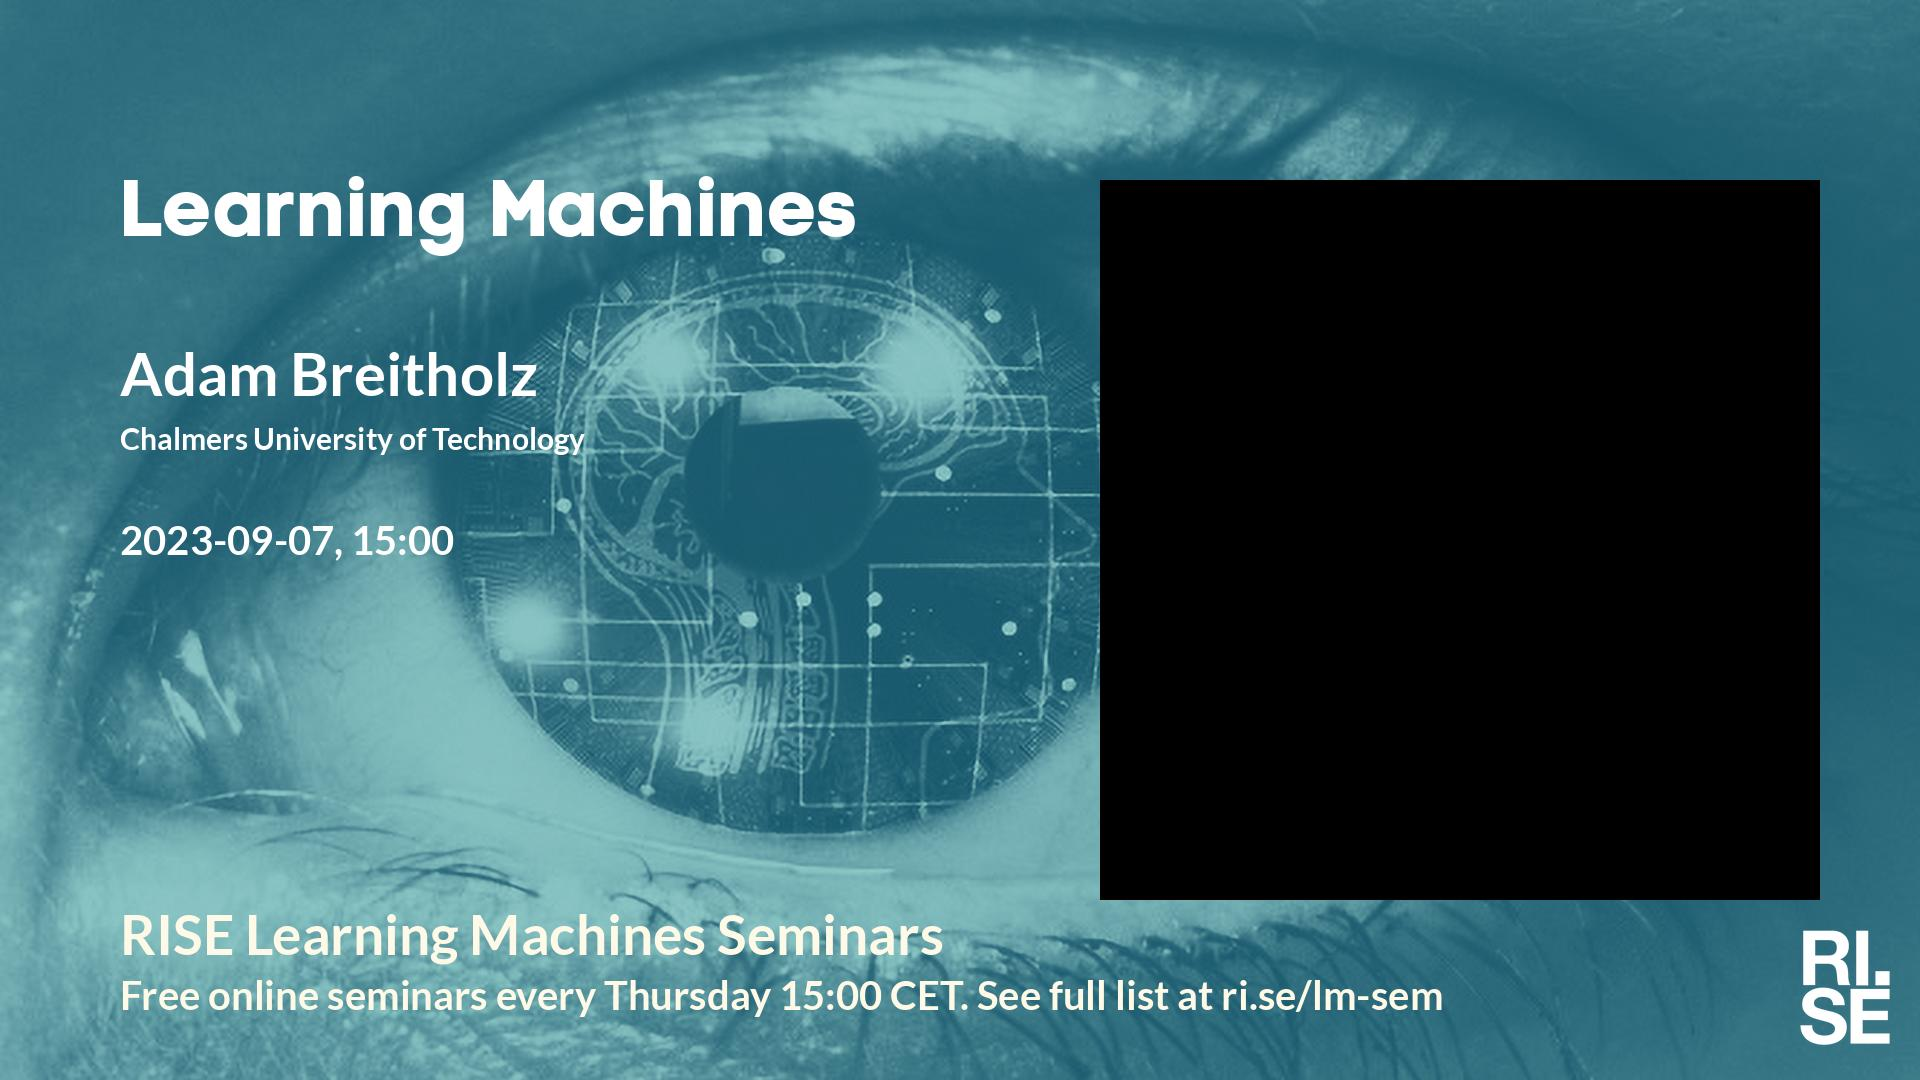
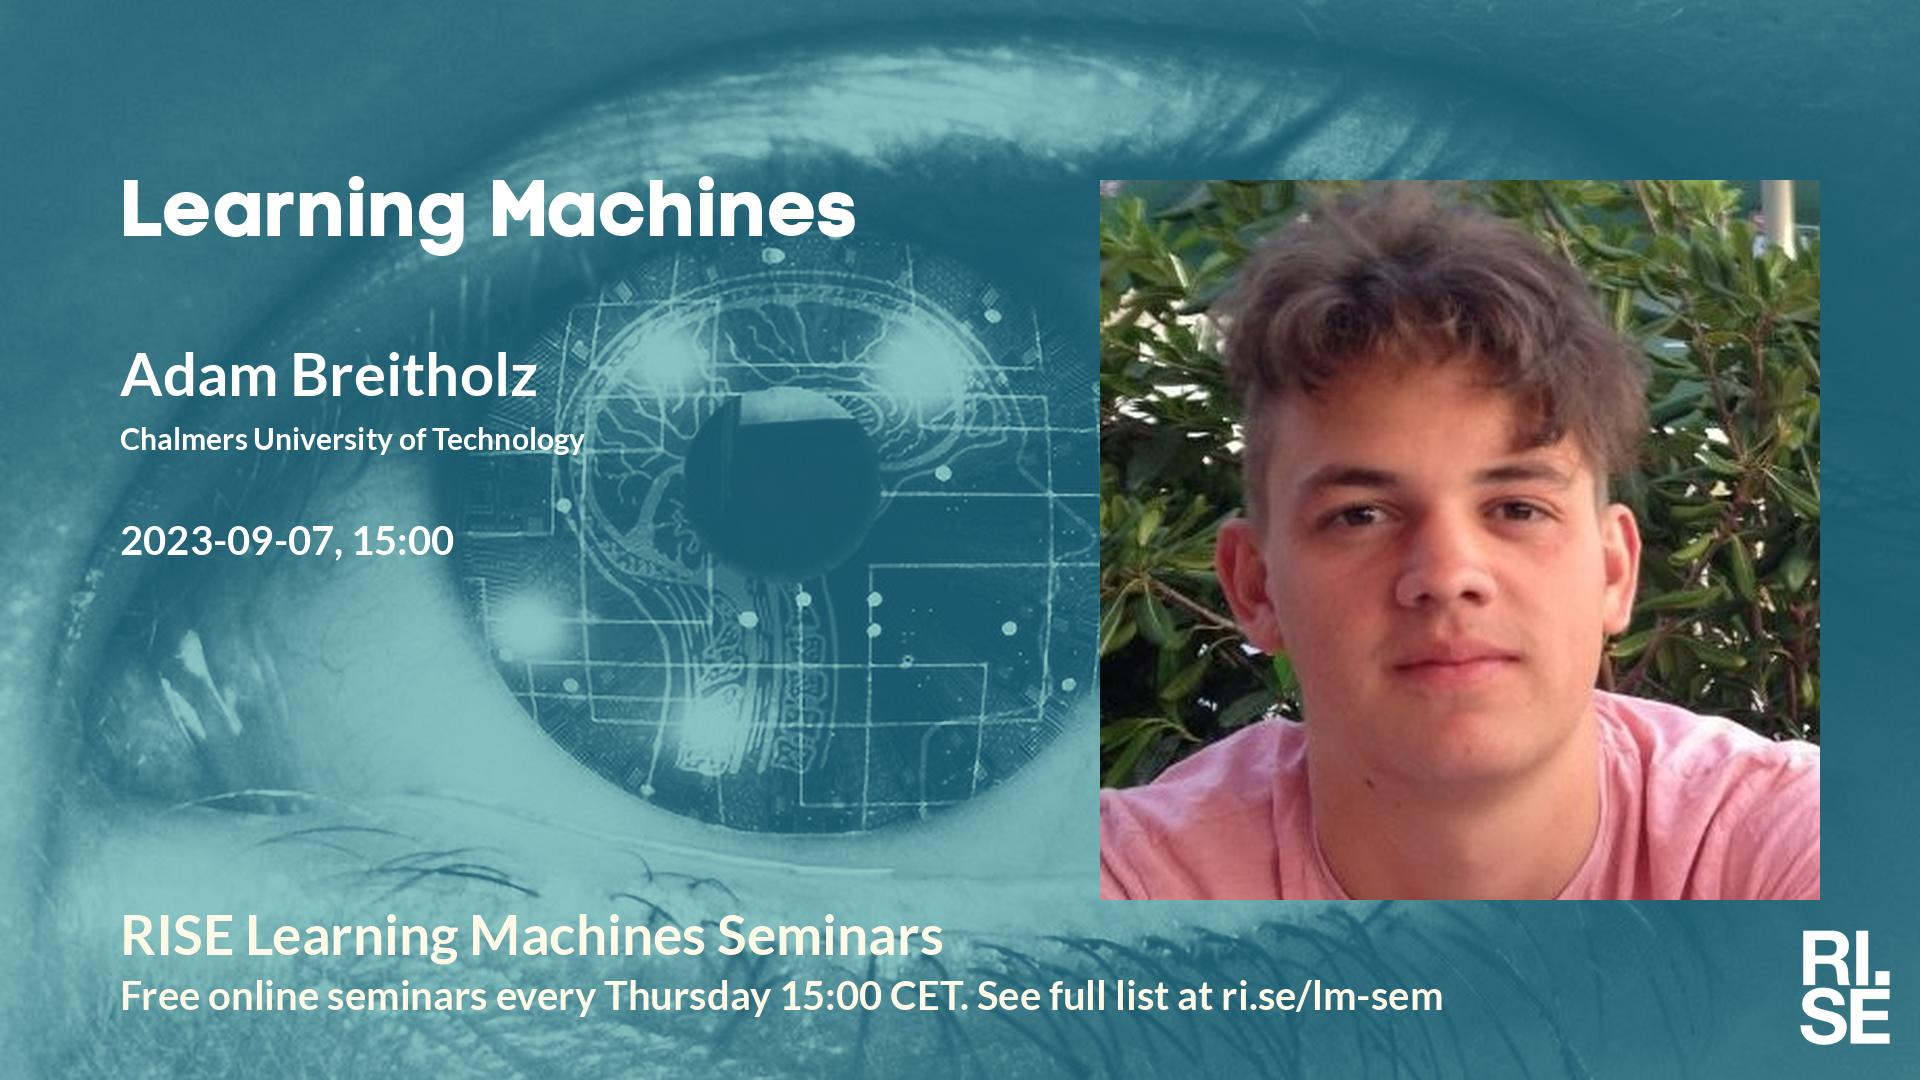
Updated plan on web site.

Changed region(s): [[0.5625, 0.1528, 0.9688, 0.8556]]

diff --git a/lm/index.md b/lm/index.md
@@ -10,7 +10,7 @@ table {border-collapse: collapse;}
 | date | speaker                                   | photo | shareable | meeting backdrop | youtube thumbnail | <a title="Speaker, Title, Abstract, Bio, Photo. Strikethrough means we don't have it yet.">comment</a>        |
 | ---- | ----------------------------------------- | ----- | ----- | ----- | ----- | -------------- |
 |  2023-08-31  |  [Zahra Taghiyar Renan, Halmstad University](2023-08-31.md)  |  [photo](photo-zahra-taghiyar-renan.jpg)  |  [social media ](social-media-zahra-taghiyar-renan.jpg)  |  [meeting backdrop ](meeting-backdrop-zahra-taghiyar-renan.jpg)  |  [youtube thumbnail ](youtube-thumbnail-zahra-taghiyar-renan.jpg)  |  S~~TAB~~P  |
-|  2023-09-07  |  [Adam Breitholz, Chalmers University of Technology](2023-09-07.md)  |    |  [social media ](social-media-adam-breitholz.jpg)  |  [meeting backdrop ](meeting-backdrop-adam-breitholz.jpg)  |  [youtube thumbnail ](youtube-thumbnail-adam-breitholz.jpg)  |  S~~TABP~~  |
+|  2023-09-07  |  [Adam Breitholz, Chalmers University of Technology](2023-09-07.md)  |  [photo](photo-adam-breitholz.jpg)  |  [social media ](social-media-adam-breitholz.jpg)  |  [meeting backdrop ](meeting-backdrop-adam-breitholz.jpg)  |  [youtube thumbnail ](youtube-thumbnail-adam-breitholz.jpg)  |  S~~TAB~~P  |
 |  2023-09-14  |  [Virginia Smith, CMU](2023-09-14.md)  |  [photo](photo-virginia-smith.jpg)  |  [social media ](social-media-virginia-smith.jpg)  |  [meeting backdrop ](meeting-backdrop-virginia-smith.jpg)  |  [youtube thumbnail ](youtube-thumbnail-virginia-smith.jpg)  |  S~~TAB~~P  |
 |  2023-09-21  |  [Nico Lang, University of Copenhagen](2023-09-21.md)  |  [photo](photo-nico-lang.jpg)  |  [social media ](social-media-nico-lang.jpg)  |  [meeting backdrop ](meeting-backdrop-nico-lang.jpg)  |  [youtube thumbnail ](youtube-thumbnail-nico-lang.jpg)  |  STABP  |
 |  2023-09-28  |  [Johan Östman, AI Sweden](2023-09-28.md)  |    |  [social media ](social-media-johan-ostman.jpg)  |  [meeting backdrop ](meeting-backdrop-johan-ostman.jpg)  |  [youtube thumbnail ](youtube-thumbnail-johan-ostman.jpg)  |  S~~TABP~~  |
